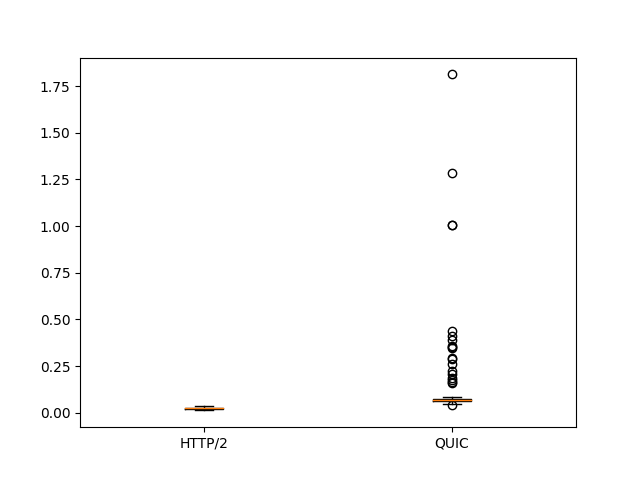
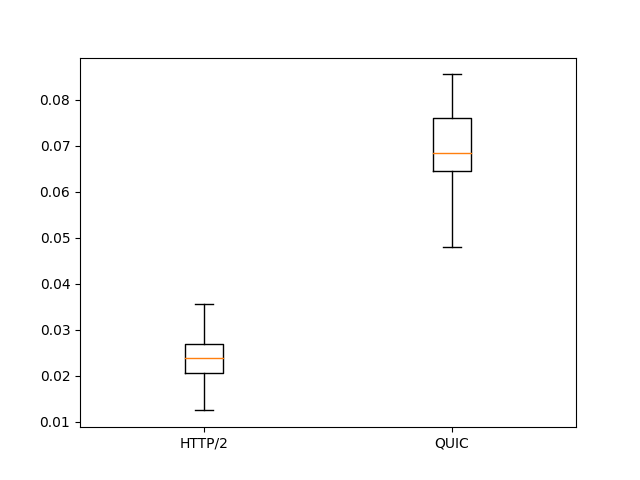
12

diff --git a/task1/20200220_lab2_task1_plotter.py b/task1/20200220_lab2_task1_plotter.py
@@ -21,7 +21,7 @@ for idx in range(1, 100):
     end = ts
   quic2LoadingTime.append(end - start)
 
-plt.boxplot([http2LoadingTime, quic2LoadingTime])
+plt.boxplot([http2LoadingTime, quic2LoadingTime], sym='')
 plt.xticks([1, 2],['HTTP/2', 'QUIC'])
 
 plt.show()
